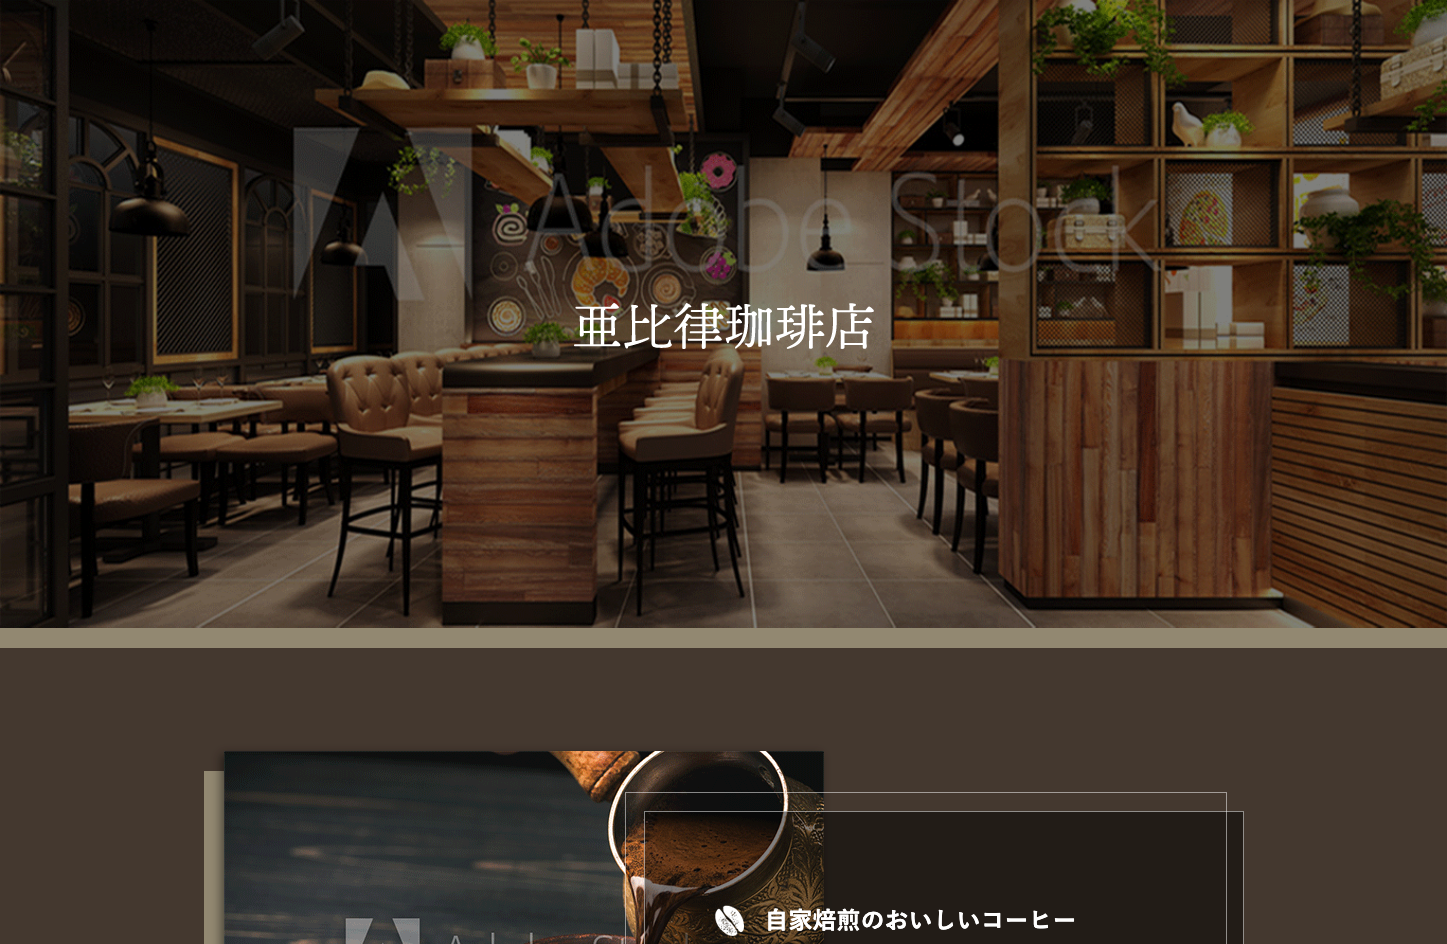
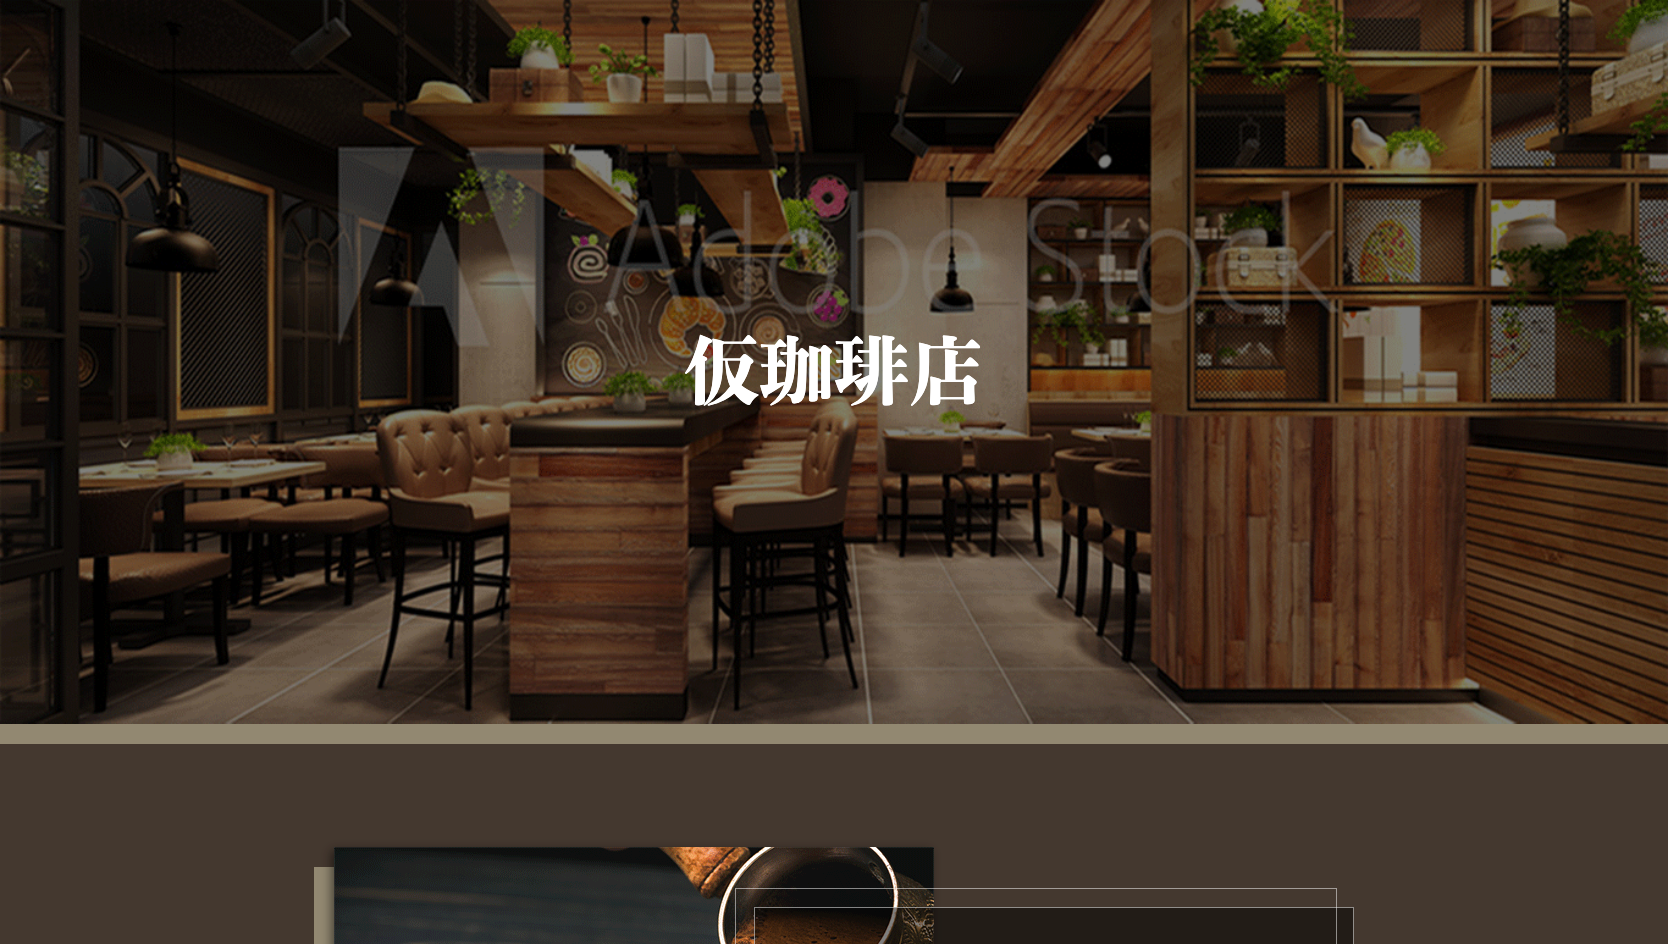
20220329

diff --git a/index.html b/index.html
@@ -4,6 +4,7 @@
     <meta charset="UTF-8">
     <meta name="viewport" content="width=device-width, initial-scale=1.0">
     <title>TOMY PORTFOLIO | Works</title>
+    <meta name="description" content="富浦凌のポートフォリオサイト">
     <link rel="stylesheet" href="stylesheet/style.css">
 </head>
 <body>
@@ -54,11 +55,11 @@
                             </a>
                         </div>
                         <h2 class="article-works__list__item__title">
-                            <a class="article-works__list__item__title__link" href="">アパレルブランド TOMIURA(仮)</a>
+                            <a class="article-works__list__item__title__link" href="">SAMPLE SHOP</a>
                         </h2>
                         <aside class="article-works__list__item__tag">
                             shopifyを利用したECサイト制作（練習）<br>
-                            PW：
+                            PW：En795vfi
                         </aside>
                     </div>
                     <div class="article-works__list__item">
@@ -68,7 +69,7 @@
                             </a>
                         </div>
                         <h2 class="article-works__list__item__title">
-                            <a class="article-works__list__item__title__link" href="">亜比律珈琲店（仮）</a>
+                            <a class="article-works__list__item__title__link" href="">仮珈琲店</a>
                         </h2>
                         <aside class="article-works__list__item__tag">
                             店舗サイトのデザイン・HTML制作（練習）
